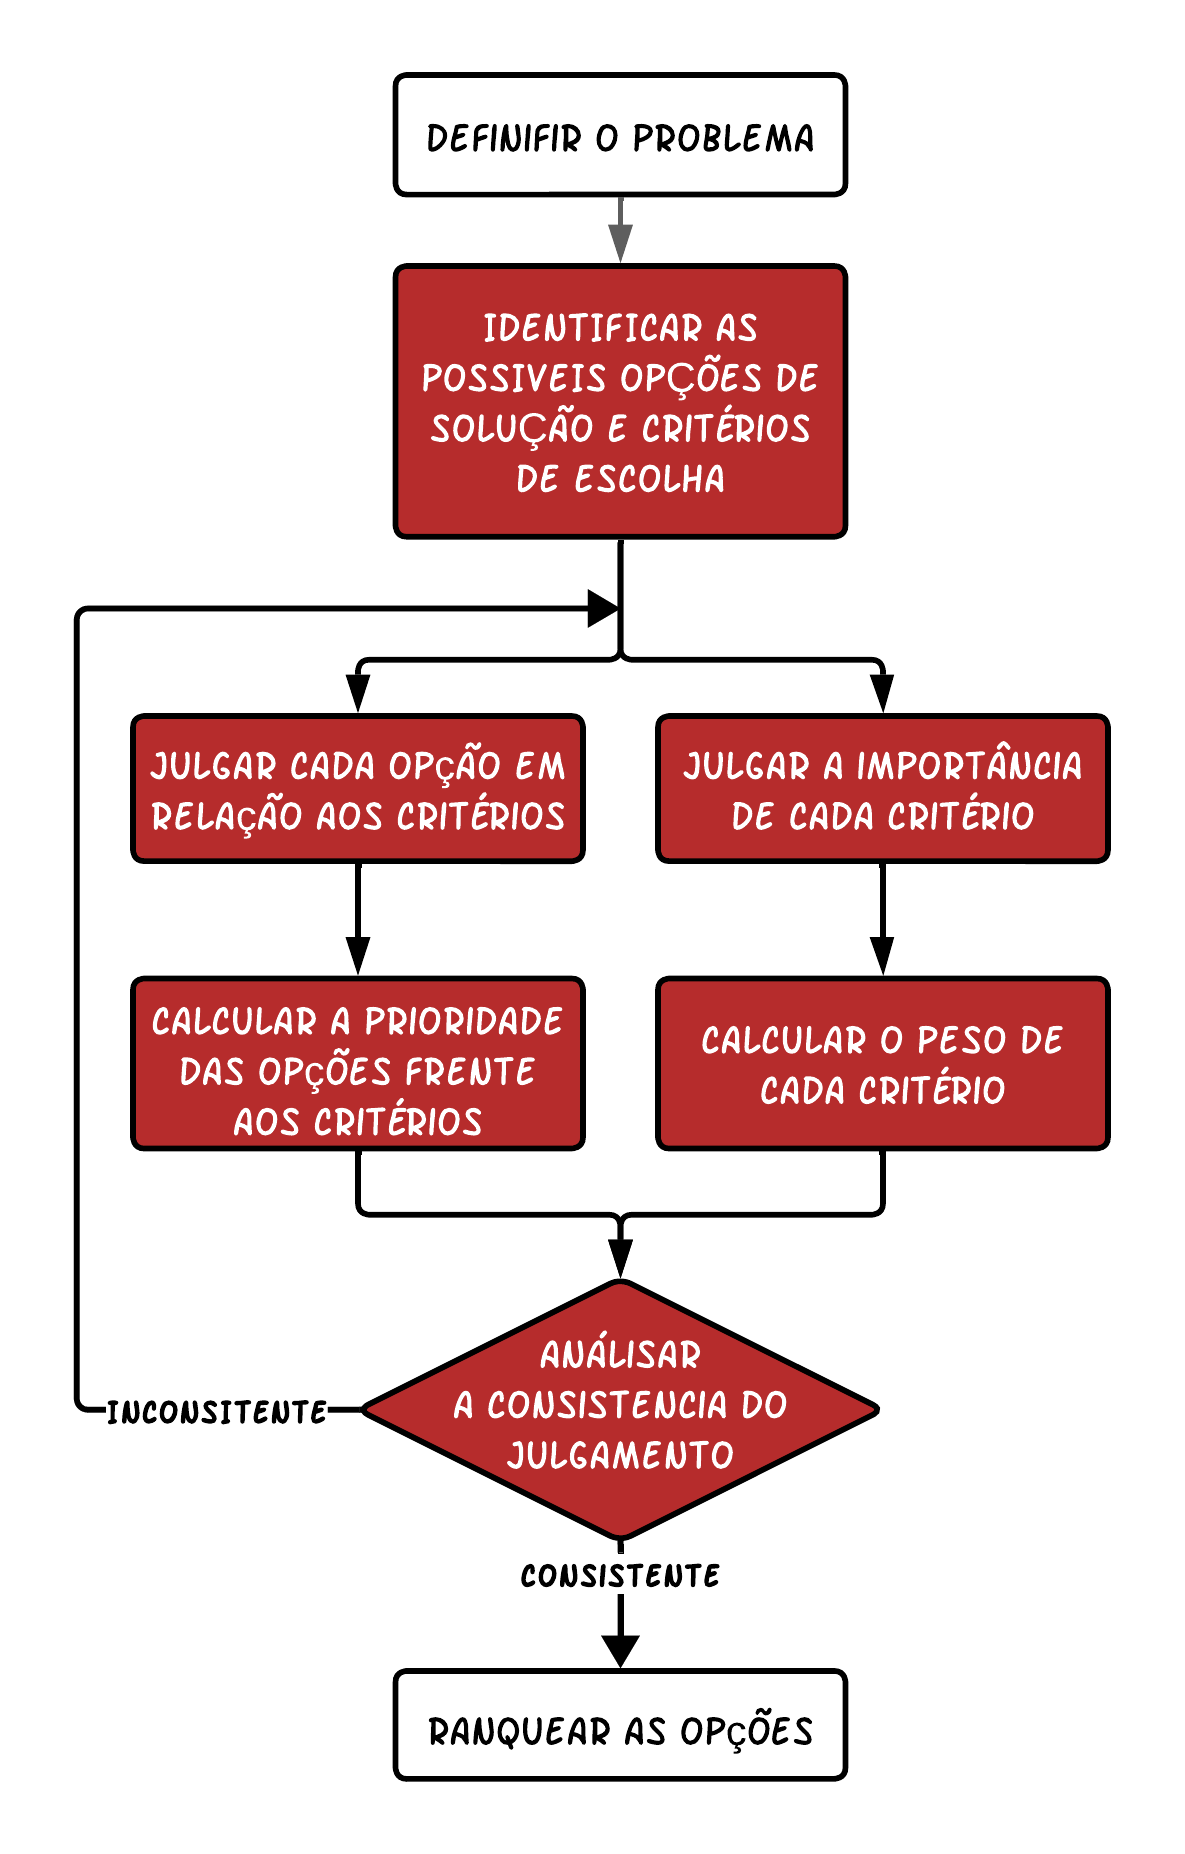
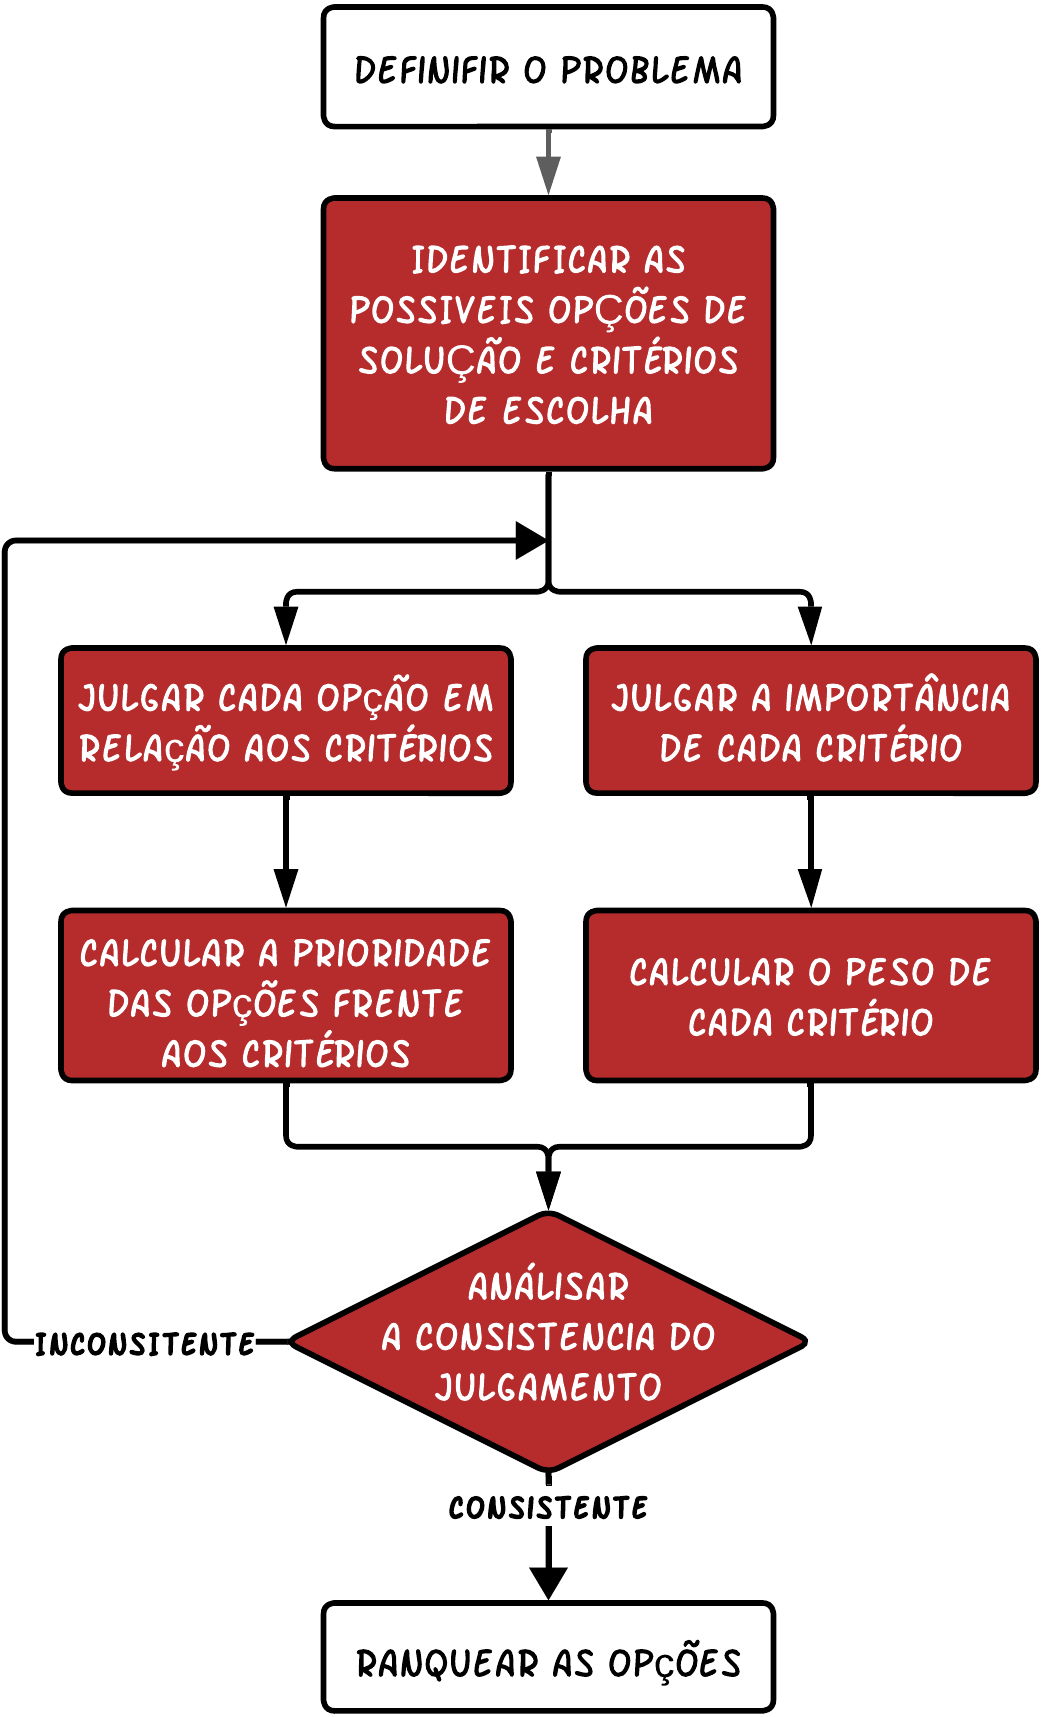
.

Changed region(s): [[0.0, 0.0, 1.0, 1.0]]

diff --git a/src/views/mcdmTabViews/inputsEtapa.vue b/src/views/mcdmTabViews/inputsEtapa.vue
@@ -54,7 +54,7 @@
                 >
                 </p>
                 <br><br>
-                <img id="img-wordcloud-mcdm" src="@/assets/Imagens/wordcloud_mcdm.jpg" alt="Nuvem de Palavras MCDM"/>
+                <img id="img-wordcloud-mcdm" src="@/assets/Imagens/wordcloud_mcdm.png" alt="Nuvem de Palavras MCDM"/>
                 <span
                     class="legenda-wordcloud-mcdm"
                 >
@@ -64,7 +64,7 @@
             <div
                 class="container-fluxograma"
             >
-                <img src="@/assets/Imagens/fluxograma_mcdm.png" alt="Fluxograma do processo de tomada de decisão por análise multicritério"/>
+                <img id="img-fluxograma-mcdm" src="@/assets/Imagens/fluxograma_mcdm.png" alt="Fluxograma do processo de tomada de decisão por análise multicritério"/>
 
             </div>
 
@@ -143,7 +143,7 @@ export default {
     width: 100%;
     height: 100%;
     padding-left: 2%;
-    padding-right: 2%;
+    padding-right: 1%;
     box-sizing: border-box;
 }
 #switch-language-mcdm{
@@ -167,9 +167,14 @@ export default {
 .container-fluxograma{
     display: flex;
     justify-content: center;
-    align-items: center;
+    position: relative;
     grid-column: 2/3;
     margin: auto;
+    height: 100%;
+    width: 100%;
+}
+#img-fluxograma-mcdm{
+    height: 50%;
 }
 
 p{
@@ -183,6 +188,7 @@ p{
     transform: translateY(-80px)scale(1.5);
     cursor: pointer;
     z-index: 2;
+    border: var(--borda-simples);
 }
 
 .legenda-wordcloud-mcdm{

diff --git a/src/components/mcdm/cardozo/descriptionCardozo.vue b/src/components/mcdm/cardozo/descriptionCardozo.vue
@@ -43,7 +43,6 @@
         <div
             class="container-fluxograma-ahp"
         >
-
             <img id="img-fluxograma-ahp" src="@\assets\Imagens\fluxograma_ahp.png" alt="fluxograma do metodo ahp"/>
         </div>
 
@@ -88,12 +87,21 @@ export default {
 #img-fluxograma-ahp{
     position: relative;
     margin: auto;
-    height: 100%;
+    height: 90%;
     max-height: 760px;
 }
 #img-mapa-cardozo-ahp{
     position: relative;
     margin: auto;
     width: 100%;
+    max-height: 380px;
+    /* transform: translateX(-20px); */
+
 }
+/* #img-mapa-cardozo-ahp:hover{
+    transform: translateY(-80px)scale(1.5);
+    cursor: pointer;
+    z-index: 2;
+    border: var(--borda-simples);
+} */
 </style>

diff --git a/src/components/mcdm/livre/descriptionLivre.vue b/src/components/mcdm/livre/descriptionLivre.vue
@@ -67,7 +67,8 @@ export default {
 #img-fluxograma-ahp{
     position: relative;
     margin: auto;
-    height: 100%;
+    height: 90%;
     max-height: 760px;
 }
+
 </style>
